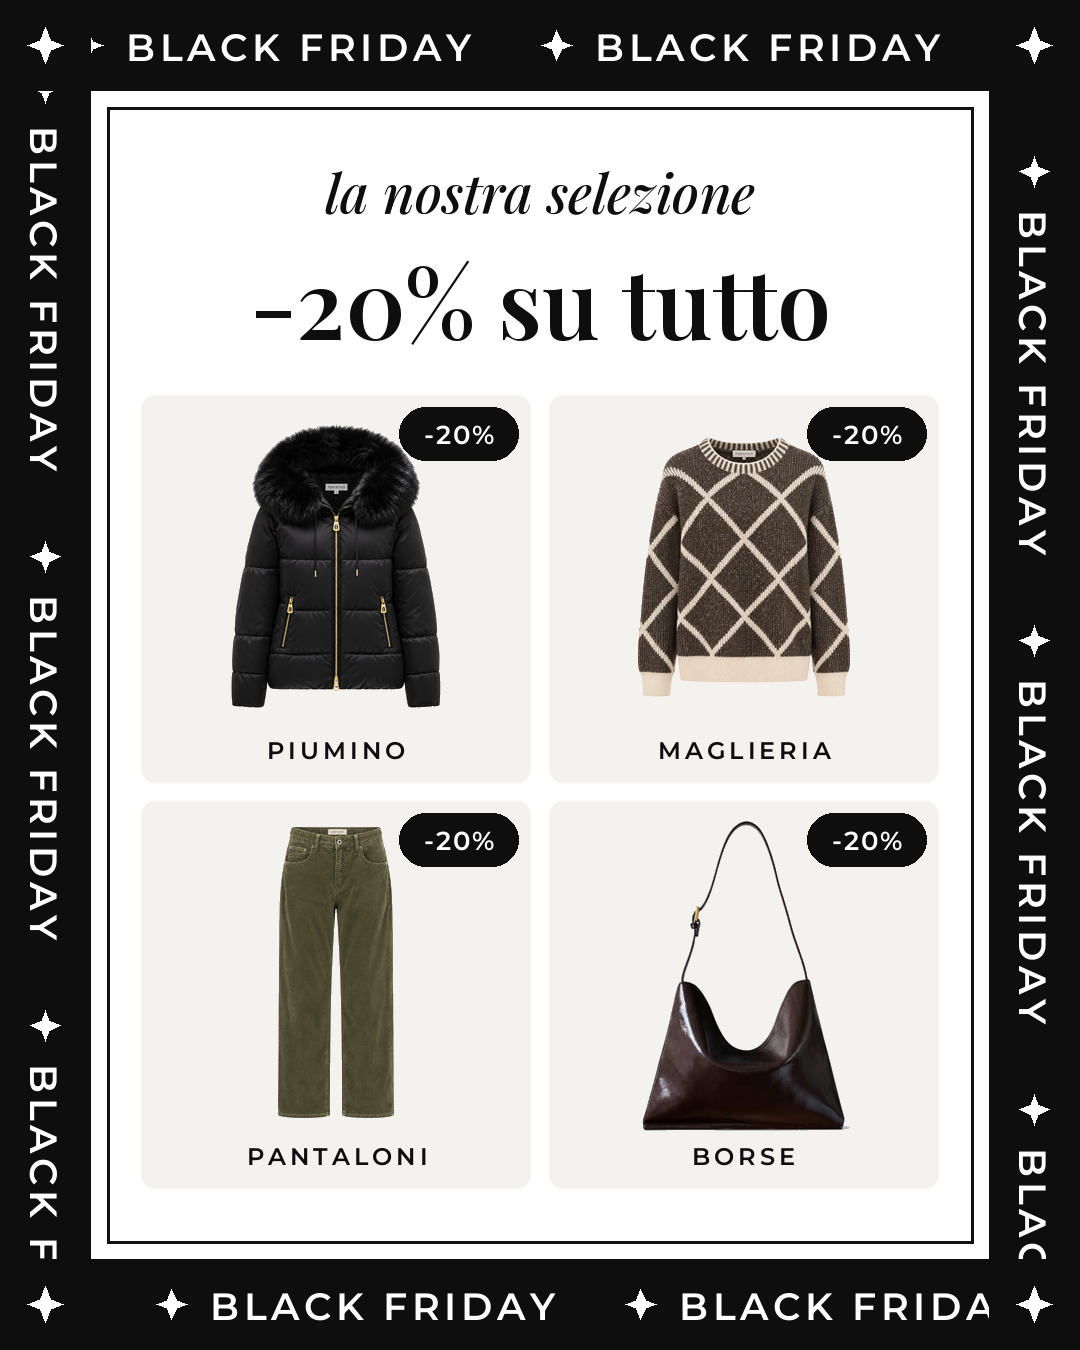
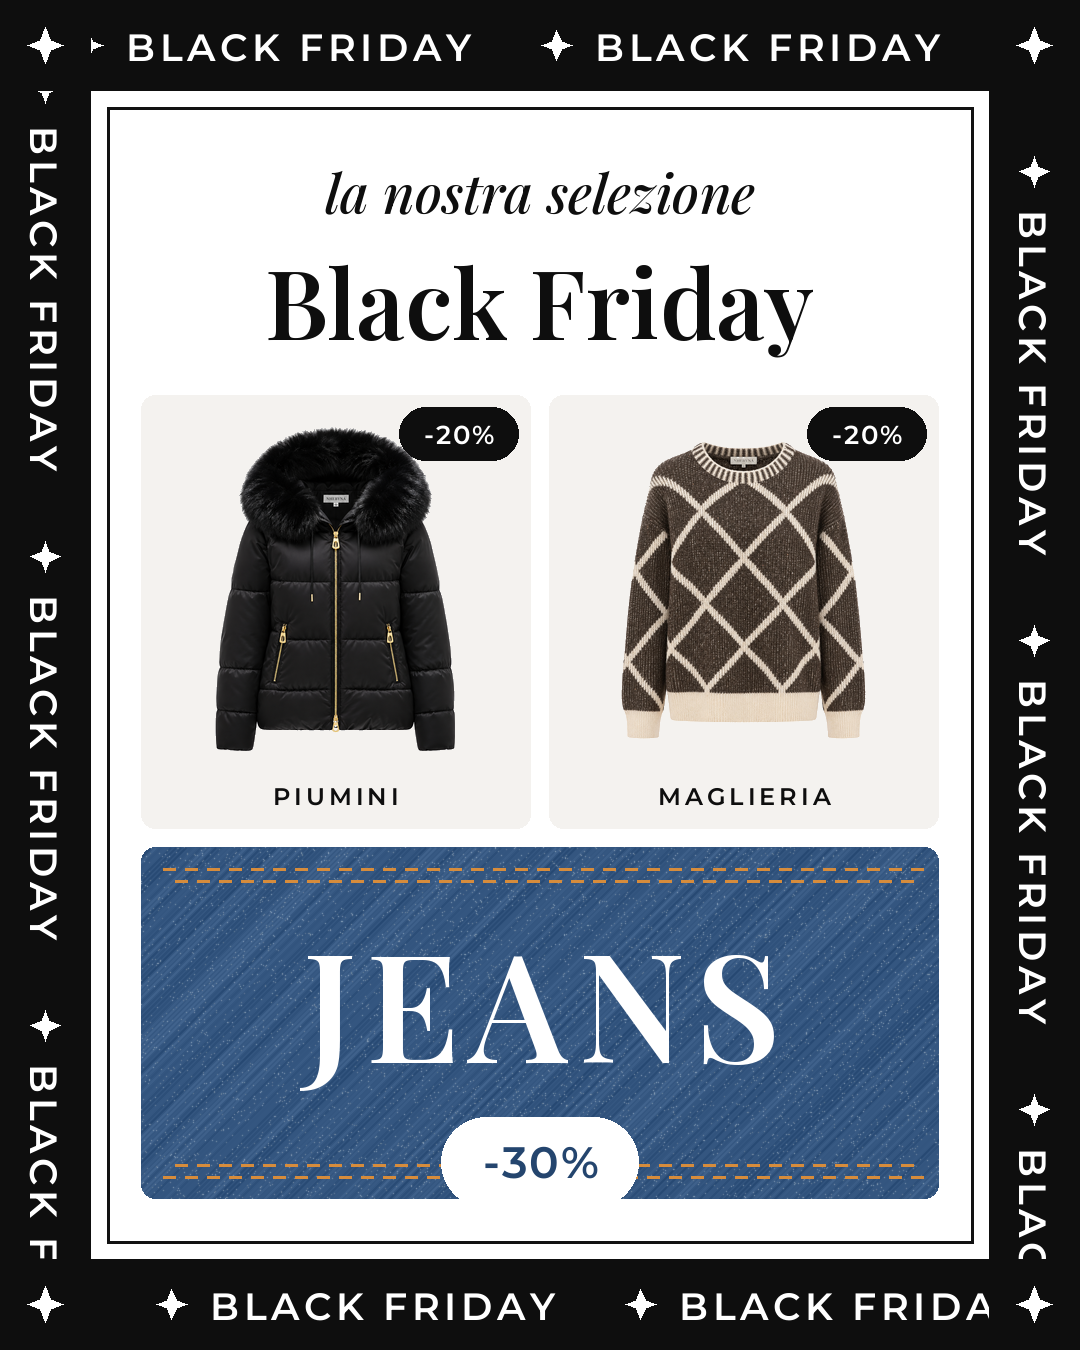
Carosello v2: tolta copertina e borse, jeans -30%, fiocco rosso
Claude-Session: https://claude.ai/code/session_01TRyadBTg1JbKFooPCfPKjK

Changed region(s): [[0.1222, 0.3111, 0.8861, 0.9022], [0.2444, 0.1867, 0.7639, 0.28]]

diff --git a/output/2026-11-25-carosello-black-friday-v2/crea.py b/output/2026-11-25-carosello-black-friday-v2/crea.py
@@ -86,37 +86,65 @@ def slide1():
 
 
 # ---------------------------------------------------------------- 2 la selezione
+def denim(w, h):
+    """Tessuto denim blu disegnato (trama diagonale, cuciture arancio)."""
+    import random
+    random.seed(4)
+    im = Image.new("RGB", (w, h), (52, 86, 128))
+    d = ImageDraw.Draw(im)
+    for k in range(-h, w, 5):
+        c = random.randint(-14, 14)
+        d.line([(k, h), (k + h, 0)], fill=(52 + c, 86 + c, 128 + c), width=2)
+    for _ in range(w * h // 40):
+        x, y = random.randrange(w), random.randrange(h)
+        v = random.randint(150, 205)
+        im.putpixel((x, y), (v - 40, v - 20, v))
+    im = im.filter(ImageFilter.GaussianBlur(0.6))
+    d = ImageDraw.Draw(im)
+    for off in (22, 34):  # doppia cucitura
+        for x in range(off, w - off, 22):
+            d.line([(x, off), (x + 12, off)], fill=(214, 140, 60), width=3)
+            d.line([(x, h - off), (x + 12, h - off)], fill=(214, 140, 60), width=3)
+    return im.convert("RGBA")
+
+
+def cella_capo(p, nome, cw, ch):
+    cella = Image.new("RGBA", (cw, ch), g.colore("#F4F2EF"))
+    ph = foto(p, cw - 30, ch - 70, sfondo_bianco=True).copy()
+    px = ph.load()
+    for yy in range(ph.height):
+        for xx in range(ph.width):
+            r, gg, b, a = px[xx, yy]
+            if min(r, gg, b) > 205 and max(r, gg, b) - min(r, gg, b) < 14:
+                px[xx, yy] = (244, 242, 239, 255)
+    cella.alpha_composite(ph, (15, 12))
+    et = testo(nome.upper(), "font_forte", 24, sp=4)
+    cella.alpha_composite(et, ((cw - et.width) // 2, ch - 52))
+    return arrotonda(cella, 14)
+
+
 def slide2():
     img = base()
     y = IN + 30
     y = centra(img, testo("la nostra selezione", "font_corsivo", 54), y)
-    y = centra(img, testo("-20% su tutto", "font_titolo", 96), y) + 26
-    capi = [("foto/prodotti/nhebyna-piumino-nero-pelliccia.png", "Piumino"),
-            ("foto/prodotti/nhebyna-maglione-rombi-marrone.png", "Maglieria"),
-            ("foto/prodotti/nhebyna-pantalone-velluto-verde.png", "Pantaloni"),
-            ("foto/outfit/borsa-vernice-moro-ritaglio.jpg", "Borse")]
+    y = centra(img, testo("Black Friday", "font_titolo", 96), y) + 26
     gap = 18
     cw = (W - 2 * IN - 40 - gap) // 2
-    ch = (H - y - IN - 40 - gap) // 2
-    for i, (p, nome) in enumerate(capi):
-        cx = IN + 20 + (i % 2) * (cw + gap)
-        cy = y + (i // 2) * (ch + gap)
-        cella = Image.new("RGBA", (cw, ch), g.colore("#F4F2EF"))
-        ph = foto(p, cw - 30, ch - 70, sfondo_bianco=True)
-        ph = ph.copy()
-        # rende il fondo bianco della foto uguale alla cella
-        px = ph.load()
-        for yy in range(ph.height):
-            for xx in range(ph.width):
-                r, gg, b, a = px[xx, yy]
-                if min(r, gg, b) > 205 and max(r, gg, b) - min(r, gg, b) < 14:
-                    px[xx, yy] = (244, 242, 239, 255)
-        cella.alpha_composite(ph, (15, 12))
-        et = testo(nome.upper(), "font_forte", 24, sp=4)
-        cella.alpha_composite(et, ((cw - et.width) // 2, ch - 52))
-        img.alpha_composite(arrotonda(cella, 14), (cx, cy))
+    ch = int((H - y - IN - 40 - gap) * 0.56)
+    for i, (p, nome) in enumerate([("foto/prodotti/nhebyna-piumino-nero-pelliccia.png", "Piumini"),
+                                   ("foto/prodotti/nhebyna-maglione-rombi-marrone.png", "Maglieria")]):
+        cx = IN + 20 + i * (cw + gap)
+        img.alpha_composite(cella_capo(p, nome, cw, ch), (cx, y))
         b = bollino("-20%", 26)
-        img.alpha_composite(b, (cx + cw - b.width - 12, cy + 12))
+        img.alpha_composite(b, (cx + cw - b.width - 12, y + 12))
+    y2 = y + ch + gap
+    jw, jh = W - 2 * IN - 40, H - y2 - IN - 30
+    tess = denim(jw, jh)
+    t = testo("JEANS", "font_titolo", 150, col=BIANCO, sp=10)
+    tess.alpha_composite(t, ((jw - t.width) // 2, (jh - t.height) // 2 - 22))
+    b = g.pillola("-30%", ST["font_forte"], 44, BIANCO, g.colore("#24456E"), spaziatura=2)
+    tess.alpha_composite(b, ((jw - b.width) // 2, (jh + t.height) // 2 - 10))
+    img.alpha_composite(arrotonda(tess, 14), (IN + 20, y2))
     chiudi(img, "2-selezione")
 
 
@@ -136,8 +164,8 @@ def slide3():
     y = IN + 24 + ph.height + 24
     y = centra(img, testo("e fino al", "font_corsivo", 64), y - 6)
     y = centra(img, testo("-30%", "font_titolo", 190), y - 30)
-    y = centra(img, testo("SU UNA SELEZIONE DI CAPI, ANCHE JEANS", "font_forte", 26, sp=3), y - 4) + 16
-    b = g.pillola("cerca il fiocco rosso sulla gruccia", ST["font_corsivo"], 34, ROSSO, BIANCO)
+    y = centra(img, testo("SU UNA SELEZIONE DI CAPI", "font_forte", 28, sp=4), y - 4) + 16
+    b = g.pillola("Cerca gli abiti con il fiocco rosso", ST["font_corsivo"], 36, ROSSO, BIANCO)
     bx = (W - b.width) // 2
     img.alpha_composite(b, (bx, y))
     fiocco(ImageDraw.Draw(img), W - IN - 80, IN + 70, 34, ROSSO)
@@ -160,4 +188,4 @@ def slide4():
 
 
 if __name__ == "__main__":
-    slide1(); slide2(); slide3(); slide4()
+    slide2(); slide3(); slide4()

diff --git a/output/2026-11-25-carosello-black-friday-v2/README.md b/output/2026-11-25-carosello-black-friday-v2/README.md
@@ -1,13 +1,14 @@
-# Carosello Black Friday v2 — 4 slide (stile grafiche Pakima)
+# Carosello Black Friday v2 — 3 slide (stile grafiche Pakima)
 
-Ordine: `1-copertina.png` → `2-selezione.png` → `3-fino-al-30.png` → `4-domenica-aperti.png`
-Rigenerabile con `python3 crea.py`.
+Ordine: `2-selezione.png` → `3-fino-al-30.png` → `4-domenica-aperti.png`
+Rigenerabile con `python3 crea.py`. (La copertina è stata scartata dalla titolare.)
+Nota: il riquadro JEANS usa un tessuto denim disegnato; quando arriva una foto dei jeans veri, sostituirla.
 
 ## Didascalia
 > Black Friday da Pakima ✦
 >
-> **-20% su tutto l'abbigliamento**: piumini, maglieria, pantaloni e borse della nuova collezione autunno-inverno.
-> E **fino al -30%** su una selezione di capi, anche jeans: cerca il fiocco rosso sulla gruccia 🎀
+> **-20% su tutto l'abbigliamento**: piumini, maglieria e tutta la nuova collezione autunno-inverno.
+> **-30% sui jeans** e **fino al -30%** su una selezione di capi: cerca gli abiti con il fiocco rosso 🎀
 >
 > Il momento perfetto per un regalo speciale… o per regalarti quel capo che aspettavi.
 >
